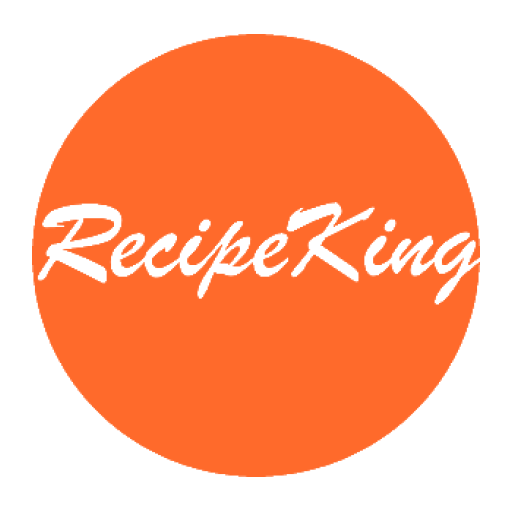
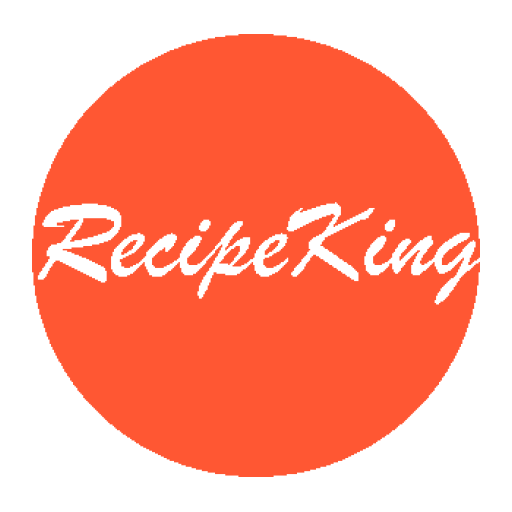
Made categories buttons, changed the theme colors.

diff --git a/app/src/main/java/recipeking/uw/tacoma/edu/recipeking/CategoriesActivity.java b/app/src/main/java/recipeking/uw/tacoma/edu/recipeking/CategoriesActivity.java
@@ -1,5 +1,6 @@
 package recipeking.uw.tacoma.edu.recipeking;
 
+import android.content.Intent;
 import android.os.Bundle;
 import android.support.design.widget.FloatingActionButton;
 import android.support.design.widget.Snackbar;
@@ -26,5 +27,10 @@ public class CategoriesActivity extends AppCompatActivity {
         });
 
         getSupportActionBar().setDisplayHomeAsUpEnabled(true);
+    }
+
+    public void showActivity(View view) {
+        Intent intent = new Intent(this, MyRecipesActivity.class);
+        startActivity(intent);
     }
 }

diff --git a/app/src/main/java/recipeking/uw/tacoma/edu/recipeking/MainActivity.java b/app/src/main/java/recipeking/uw/tacoma/edu/recipeking/MainActivity.java
@@ -104,6 +104,7 @@ public class MainActivity extends AppCompatActivity
         startActivity(intent);
     }
 
+
     @SuppressWarnings("StatementWithEmptyBody")
     @Override
     public boolean onNavigationItemSelected(MenuItem item) {
